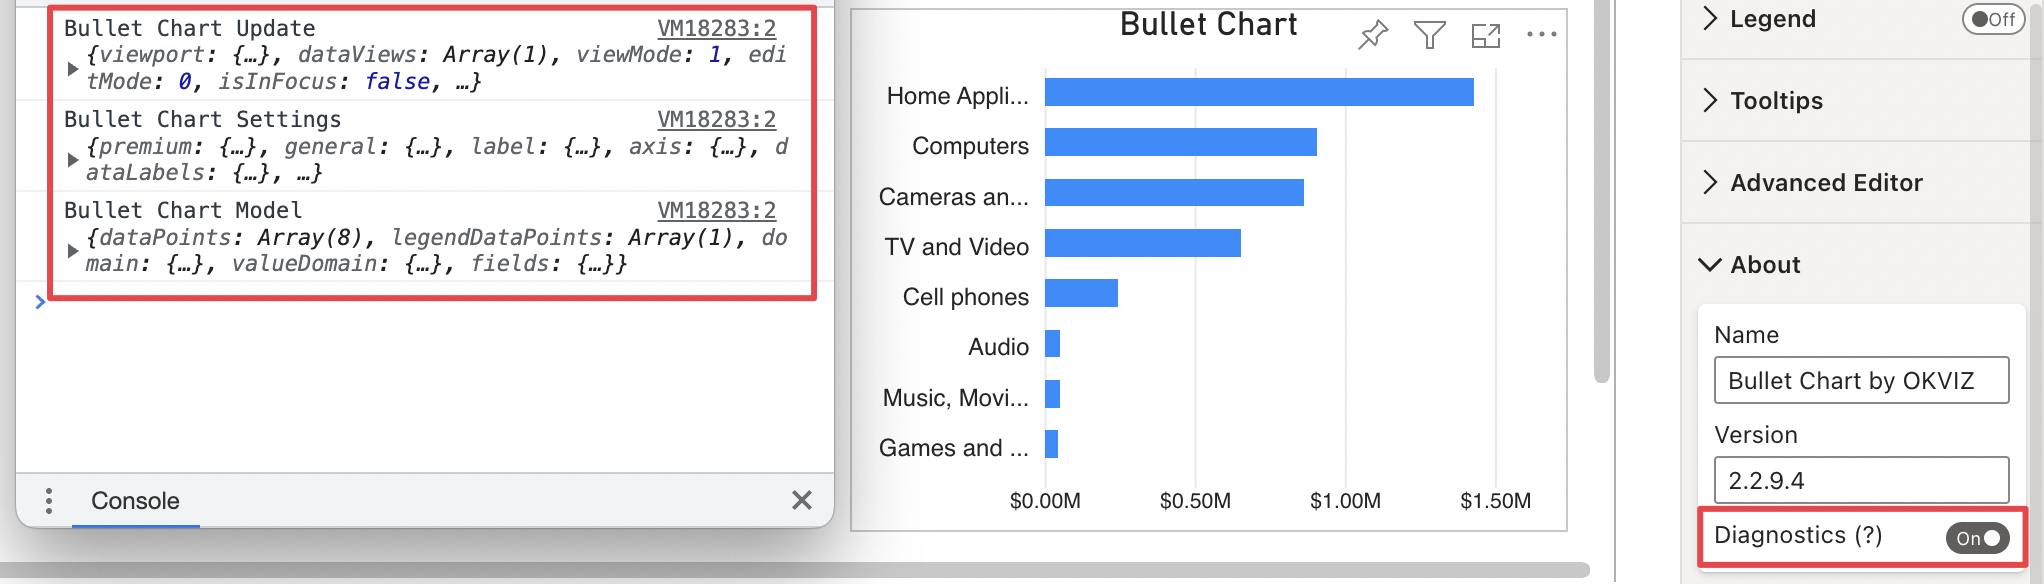
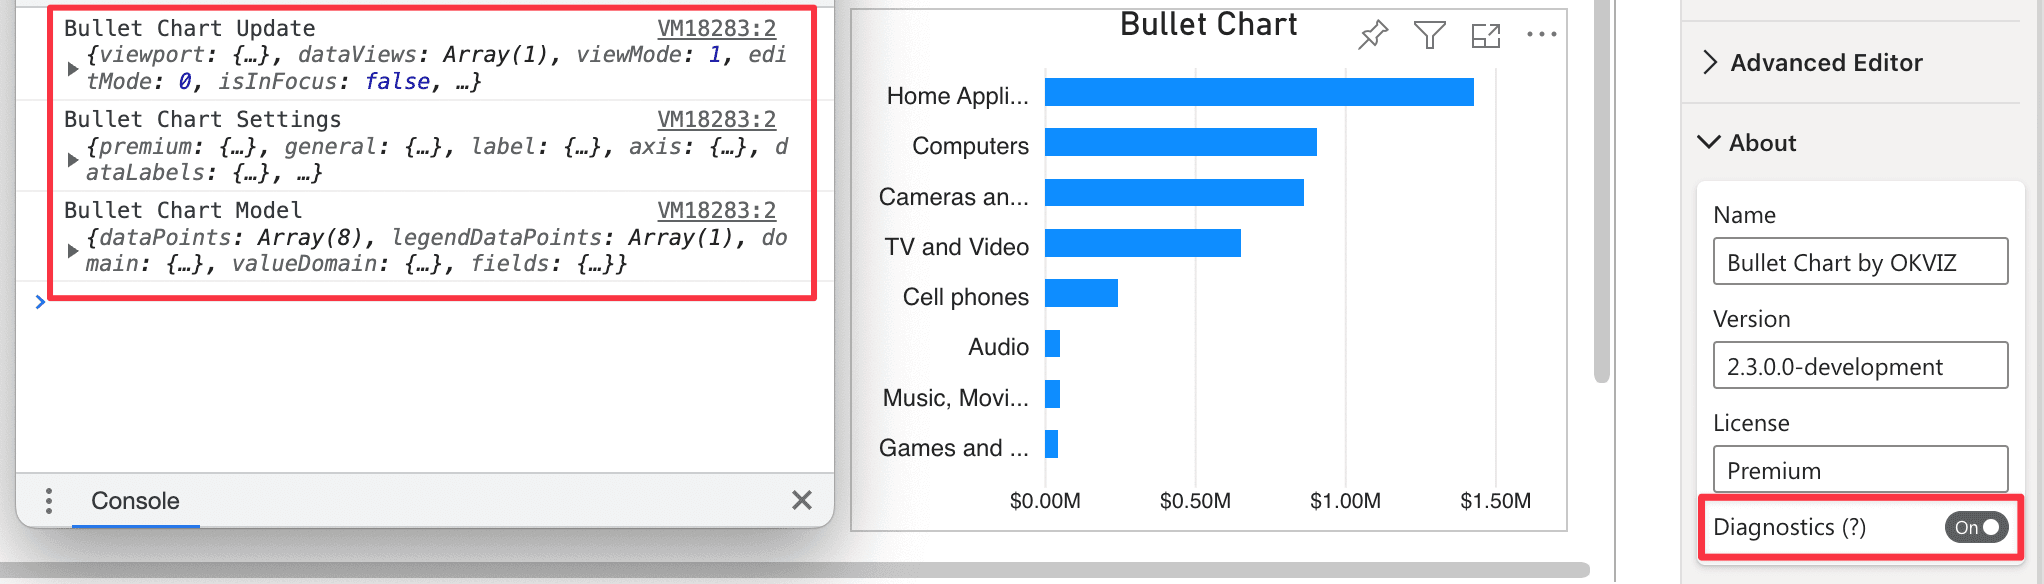
Update

diff --git a/_docs/calendar-pro/options/about/index.md b/_docs/calendar-pro/options/about/index.md
@@ -3,7 +3,7 @@ layout:             page
 title:              About 
 published:          true
 date:               2022-07-17
-modified:           2022-07-22
+modified:           2022-07-31
 order:              /calendar-pro/options/about
 internal:           about, name, version, diagnostics
 ---
@@ -16,6 +16,18 @@ The name of the visual.
 
 ## Version
 The current version of visual.
+
+## License
+The current status of your license, which can be:
+
+- **Active:**: Your license is valid and you can use Calendar Pro.
+- **Active (Grace Period):** There is a problem with your last payment. The license is still active but in a week's time it will no longer be valid.
+- **Suspended:**: The license has been deactivated. Calendar Pro can no longer be used.
+- **Inactive:** You don't have a valid license, you cannot use Calendar Pro.
+- **Not Available:** A problem has occured in checking the license status. The visual will continue to check it until it is resolved. After a few minutes, if the licensing system is unavailable, the license will be considered invalid and the visual locked.
+
+See more on [Licensing](../../licensing.md).
+
 ## Diagnostics
 
 **Default value:** Off

diff --git a/_docs/bullet-chart/options/about/index.md b/_docs/bullet-chart/options/about/index.md
@@ -18,6 +18,17 @@ The name of the visual.
 ## Version
 The current version of visual.
 
+## License
+The current status of your license, which can be:
+
+- **Premium:** Your license is valid and you can use all premium features of Bullet Chart
+- **Premium (Grace Period):** There is a problem with your last payment. The license is still active but in a week's time it will no longer be valid.
+- **Free (Premium Suspended):**: The license has been deactivated. You can continue to use Bullet Chart, but all premium features will be reset and deactivated.
+- **Free:** You don't have a valid license, you cannnot use any premium features.
+- **Not Available:** A problem has occured in checking the license status. The visual will continue to check it until it is resolved. After a few minutes, if the licensing system is unavailable, the license will be considered invalid and all premium features will be deactivated.
+
+See more on [Licensing](../../licensing.md).
+
 ## Diagnostics
 
 **Default value:** Off

diff --git a/_docs/bullet-chart/changelog.md b/_docs/bullet-chart/changelog.md
@@ -3,7 +3,7 @@ layout:             page
 title:              Changelog
 published:          true
 date:               2022-07-15
-modified:           2022-07-28
+modified:           2022-07-31
 order:              /bullet-chart/{99}
 toc_max:            2
 ---
@@ -14,7 +14,7 @@ Bullet Chart uses **Power BI Custom Visuals API v4.7.0** - compatible with Power
 **Released:** TBD
 
 **Changed:**
-- Support API 4.4.7
+- Support API 4.7.0
 - Remove default tooltips labels
 - Disable extending last state by default
 - Disable premium features on environments unsupported by licensing system
@@ -31,7 +31,8 @@ Bullet Chart uses **Power BI Custom Visuals API v4.7.0** - compatible with Power
 
 **Added:**
 - Premium wizard screen
-- Border opacity option
+- Border opacity option to data labels and bullet shape
+- License info in About
 
 ## v2.2.9.5
 

diff --git a/_docs/bullet-chart/options/bullet-shape/border-opacity.md b/_docs/bullet-chart/options/bullet-shape/border-opacity.md
@@ -1,20 +1,20 @@
 ---
 layout:         page
-title:          Border
+title:          Border Opacity
 published:      true
 date:           2022-07-07
 modified:   	2022-07-31
-order:          /bullet-chart/options/data-labels/border
+order:          /bullet-chart/options/bullet-shape/border-opacity
 premium:        /bullet-chart/licensing.md
 related:            
+    - border.md
     - border-color.md
-    - border-opacity.md
     - border-stroke.md
     - border-style.md
 ---
 
-**Default Value:** Off
+**Default value:** 100
 
-This options adds a border to data labels.
+Defines border opacity color.
 
-<img src="images/data-labels-border.png" width="700"> 
+<img src="images/bullet-shape-border-opacity.png" width="700">

diff --git a/_docs/bullet-chart/options/data-labels/border-opacity.md b/_docs/bullet-chart/options/data-labels/border-opacity.md
@@ -1,20 +1,20 @@
 ---
 layout:         page
-title:          Border
+title:          Border Opacity
 published:      true
 date:           2022-07-07
 modified:   	2022-07-31
-order:          /bullet-chart/options/data-labels/border
+order:          /bullet-chart/options/data-labels/border-opacity
 premium:        /bullet-chart/licensing.md
 related:            
+    - border.md
     - border-color.md
-    - border-opacity.md
     - border-stroke.md
     - border-style.md
 ---
 
-**Default Value:** Off
+**Default value:** 100
 
-This options adds a border to data labels.
+Defines border opacity color.
 
-<img src="images/data-labels-border.png" width="700"> 
+<img src="images/data-labels-border-opacity.png" width="700">

diff --git a/_docs/bullet-chart/options/data-labels/border-color.md b/_docs/bullet-chart/options/data-labels/border-color.md
@@ -4,8 +4,9 @@ title:          Border Color
 published:      true
 date:           2022-07-07
 modified:   	2022-07-31
-order:          /bullet-chart/options/bullet-shape/border-color
+order:          /bullet-chart/options/data-labels/border-color
 premium:        /bullet-chart/licensing.md
+internal:       borderFill
 related:            
     - border.md
     - border-opacity.md
@@ -17,6 +18,6 @@ related:
 
 Defines border outline color.
 
-<img src="images/bullet-shape-border-color.png" width="700">
+<img src="images/data-labels-border-color.png" width="700">
 
 > This option is not controllable through a [Report Theme](../../features/themes.md).

diff --git a/_docs/bullet-chart/options/bullet-shape/border-style.md b/_docs/bullet-chart/options/bullet-shape/border-style.md
@@ -3,11 +3,14 @@ layout:         page
 title:          Border Style
 published:      true
 date:           2022-07-07
-modified:   	2022-07-20
+modified:   	2022-07-31
 order:          /bullet-chart/options/bullet-shape/border-style
 premium:        /bullet-chart/licensing.md
 related:            
     - border.md
+    - border-color.md
+    - border-opacity.md
+    - border-stroke.md
 ---
 
 **Default value:** Solid

diff --git a/_docs/bullet-chart/options/bullet-shape/border-stroke.md b/_docs/bullet-chart/options/bullet-shape/border-stroke.md
@@ -3,11 +3,14 @@ layout:         page
 title:          Border Stroke
 published:      true
 date:           2022-07-07
-modified:   	2022-07-20
+modified:   	2022-07-31
 order:          /bullet-chart/options/bullet-shape/border-stroke
 premium:        /bullet-chart/licensing.md
 related:            
     - border.md
+    - border-color.md
+    - border-opacity.md
+    - border-style.md
 ---
 
 **Default value:** 1px

diff --git a/_docs/bullet-chart/options/data-labels/border-style.md b/_docs/bullet-chart/options/data-labels/border-style.md
@@ -3,11 +3,14 @@ layout:         page
 title:          Border Style
 published:      true
 date:           2022-07-07
-modified:   	2022-07-20
+modified:   	2022-07-31
 order:          /bullet-chart/options/data-labels/border-style
 premium:        /bullet-chart/licensing.md
 related:            
     - border.md
+    - border-color.md
+    - border-opacity.md
+    - border-stroke.md
 ---
 
 **Default value:** Solid

diff --git a/_docs/bullet-chart/options/bullet-shape/border.md b/_docs/bullet-chart/options/bullet-shape/border.md
@@ -3,9 +3,14 @@ layout:         page
 title:          Border
 published:      true
 date:           2022-07-07
-modified:   	2022-07-20
+modified:   	2022-07-31
 order:          /bullet-chart/options/bullet-shape/border
 premium:        /bullet-chart/licensing.md
+related:
+    - border-color.md
+    - border-opacity.md
+    - border-stroke.md
+    - border-style.md
 ---
 
 **Default value:** Off

diff --git a/_docs/calendar-pro/changelog.md b/_docs/calendar-pro/changelog.md
@@ -16,7 +16,7 @@ Smart Filter Pro uses **Power BI Custom Visuals API v4.7.0** - compatible with P
 **Added:**
 - A wizard dialog when the visual contains no data.
 - [Extenda Today Color](options/cells/extend-today-color.md) option.
-- Support to API 4.7.0
+- Support API 4.7.0
 
 **Changed:**
 - Improve ***Change Layout*** menu.

diff --git a/_docs/bullet-chart/options/data-labels/background-opacity.md b/_docs/bullet-chart/options/data-labels/background-opacity.md
@@ -7,8 +7,8 @@ modified:   	        2022-07-20
 order:                  /bullet-chart/options/data-labels/background-opacity
 premium:                /bullet-chart/licensing.md
 related:
- - background.md
- - background-color.md
+    - background.md
+    - background-color.md
 ---
 
 **Default Value:** 50
